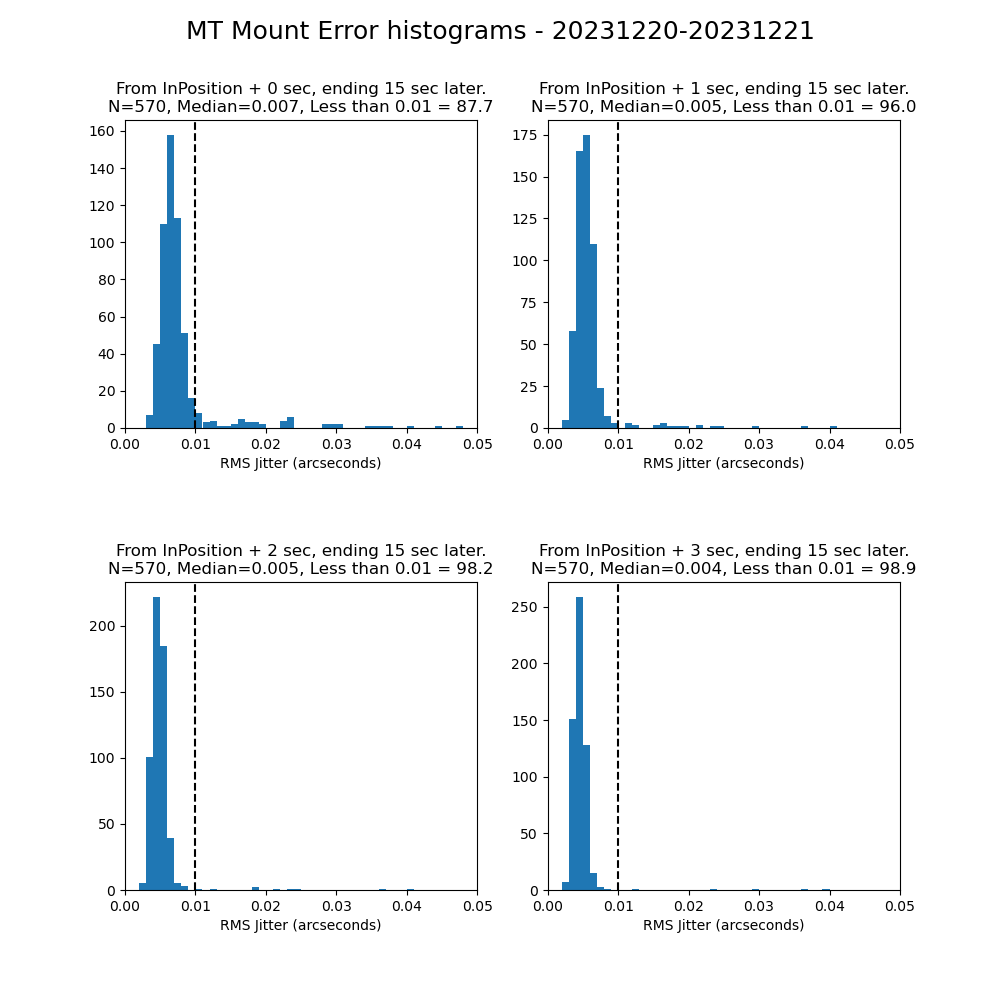
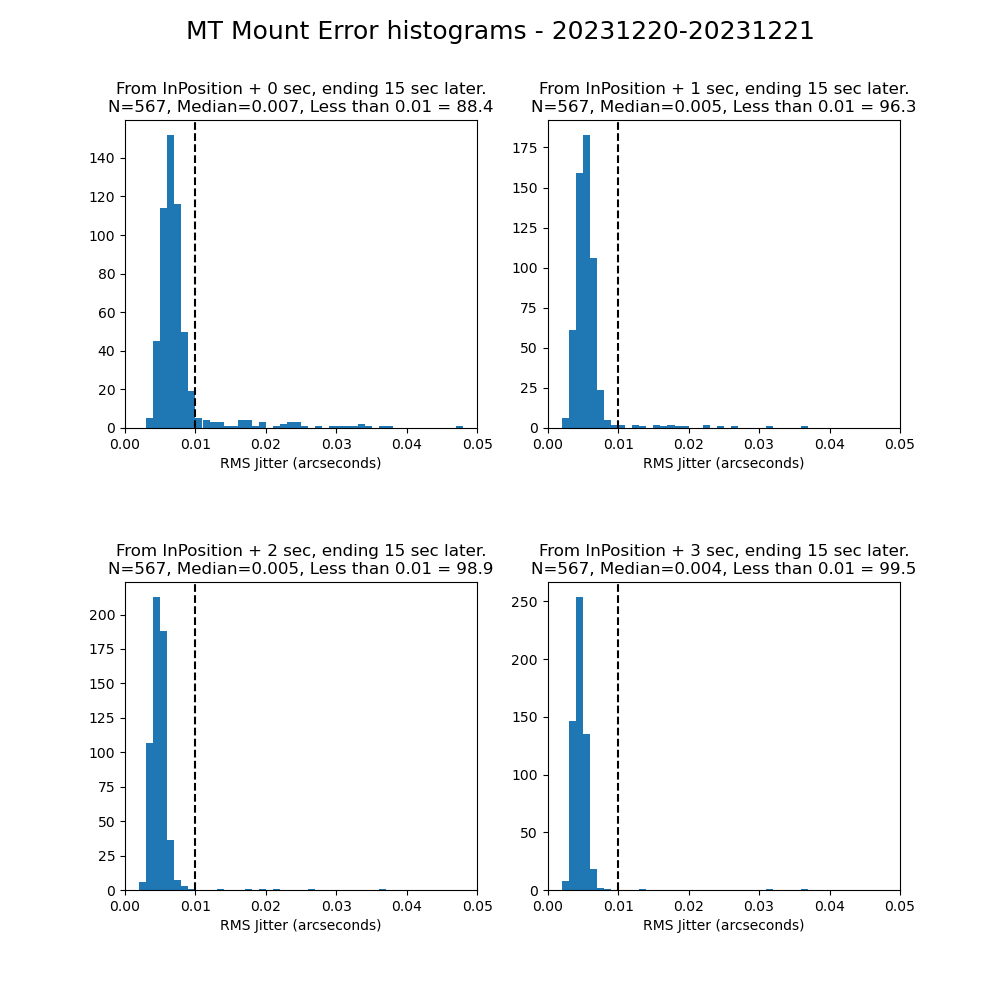
New version with revised definition of when the TMA is settled.

diff --git a/index.rst b/index.rst
@@ -77,45 +77,38 @@ Figure 6.  Worst case tracking error (between Az and El) at the time of the InPo
 
 How long does the TMA take to settle after the InPosition timestamp?
 -----------------------------------------------------------------------------------------------------
-To answer this question, we need to determine what we mean by the TMA being settled.  This is not an easy question to answer, but what is done here is to convert the tracking error into a 10 point rolling average, and then demand that the rolling average absolute magnitude is below 0.01 arcseconds and stays there.  Figure 7 shows a typical plot showing the setting time as determined by this method.
-
-.. image:: ./_static/Settling_Time_Example_20231220_487.png
-	   
-Figure 7.  An example showing the TMA settling time.  The vertical black dotted line is the InPosition timestamp, and the vertical green dotted line is when the TMA has settled, using the algorithm described in the text.
-
-Using this definition of the settling time, Figure 8 shows the time for the TMA to settle after the InPosition timestamp.  Sometimes the TMA is settled at the InPosition timestamp, but often it is not.
+To answer this question, we need to determine what we mean by the TMA being settled.  This is not an easy question to answer, but the definition used here is that the TMA is considered settled if the RMS tracking error for the next 15 seconds is less than 0.01 arcseconds.  This definition is a little strange in that you have to look 15 seconds into the future to know if the TMA is settled, but it is what we are using.  Using this definition of the settling time, Figure 7 shows the time for the TMA to settle after the InPosition timestamp.  For most events, the TMA is settled at the InPosition timestamp.  For events which are not settled at the InPosition timestamp, a binary search is run to find how much time needs to be added after InPosition for the RMS tracking error to be less than 0.01 arcseconds. Figure 8 shows an event which is not settled at InPosition.
 
 .. image:: ./_static/Settling_Time_20231220-20231221.png
 	   
-Figure 8.  Histogram of the settling times using the algorithm described in the text.
+Figure 7.  Histogram of the settling times using the algorithm described in the text.
 
-Most tracking events are settled within a few seconds, but some take a very long time to settle.  This is caused by some events where the jitter error stays large for a long time.  An example of this is shown in Figure 9.
-
-.. image:: ./_static/Long_Settling_Time_Example_20231220_121.png
+.. image:: ./_static/Settling_Time_Example_20231220_471.png
 	   
-Figure 9.  Example of a tracking event that takes more than 10 seconds to settle.
+Figure 8.  An example showing an event where the TMA is not settled at the InPosition timestamp.  The vertical black dotted line is the InPosition timestamp, and the vertical green dotted line is when the TMA has settled, using the algorithm described in the text.
+
 
 What is the RMS tracking jitter for a 15 second period after the InPosition timestamp?
 -----------------------------------------------------------------------------------------------------------------------------------
-The specification for the TMA requires that the RMS jitter stays below 0.01 arcseconds for a 15 seconds period after the InPosition time stamp?  How well are we doing compared to this requirement?  Figure 10 shows the results of that analysis, either starting at the InPosition timestamp, or waiting a short time before starting the 15 second period.
+As discussed above, the specification for the TMA requires that the RMS jitter stays below 0.01 arcseconds for a 15 seconds period after the InPosition time stamp.  How well are we doing compared to this requirement?  Figure 9 shows the results of that analysis, either starting at the InPosition timestamp, or waiting a short time before starting the 15 second period.
 
 .. image:: ./_static/Jitter_Summary_20231220-20231221.png
 	   
-Figure 10. RMS jitter for a 15 second period, either starting at the InPosition timestamp, or waiting a short time before starting the 15 second period.
+Figure 9. RMS jitter for a 15 second period, either starting at the InPosition timestamp, or waiting a short time before starting the 15 second period.
 
 Here I need to mention that these results are significantly better than what I showed from earlier analyses.  I believe this is because of two reasons: (1) using the MTMount as the source of the demand position instead of MTPtg, as discussed in the Methodology section, and (2) a better algorithm for screening out the bad datapoints, as discussed in the section on Single point errors in the tracking data stream.
 
 What is the time from the beginning of a slew until the TMA is InPosition and settled?
 -------------------------------------------------------------------------------------------------------------------------------------------------
-The specification for the TMA requires that the TMA can perform slews with a magnitude of less than 3.5 degrees, and be in position and settled in less that 4 seconds.  How well are we doing with respect to this requirement?  Figure 11 shows that if we consider the end of the slew to be the InPosition timestamp, then we are meeting the requirement.  However, Figure 12 shows that if we consider the end of the slew when the TMA has settled to within 0.01 arcseconds, then we are not meeting it.  Clearly more discussion and analysis is needed.
+The specification for the TMA requires that the TMA can perform slews with a magnitude of less than 3.5 degrees, and be in position and settled in less that 4 seconds.  How well are we doing with respect to this requirement?  Figure 10 shows that if we consider the end of the slew to be the InPosition timestamp, then we are meeting the requirement.  However, Figure 11 shows that if we consider the end of the slew when the TMA has settled as described above, the results are not quite as good.
 
 .. image:: ./_static/Slew_Settle_Times_InPosition_20231220-20231221.png
 	   
-Figure 11. Slew and Settle time analysis, assuming that the end of the slew is the InPosition timestamp.
+Figure 10. Slew and Settle time analysis, assuming that the end of the slew is the InPosition timestamp.
 
 .. image:: ./_static/Slew_Settle_Times_Settled_20231220-20231221.png
 	   
-Figure 12. Slew and Settle time analysis, assuming that the end of the slew is when the TMA has settled to within 0.01 arcseconds.
+Figure 11. Slew and Settle time analysis, assuming that the end of the slew is when the TMA has settled as described in the text.
 
 Conclusions
 ============================
